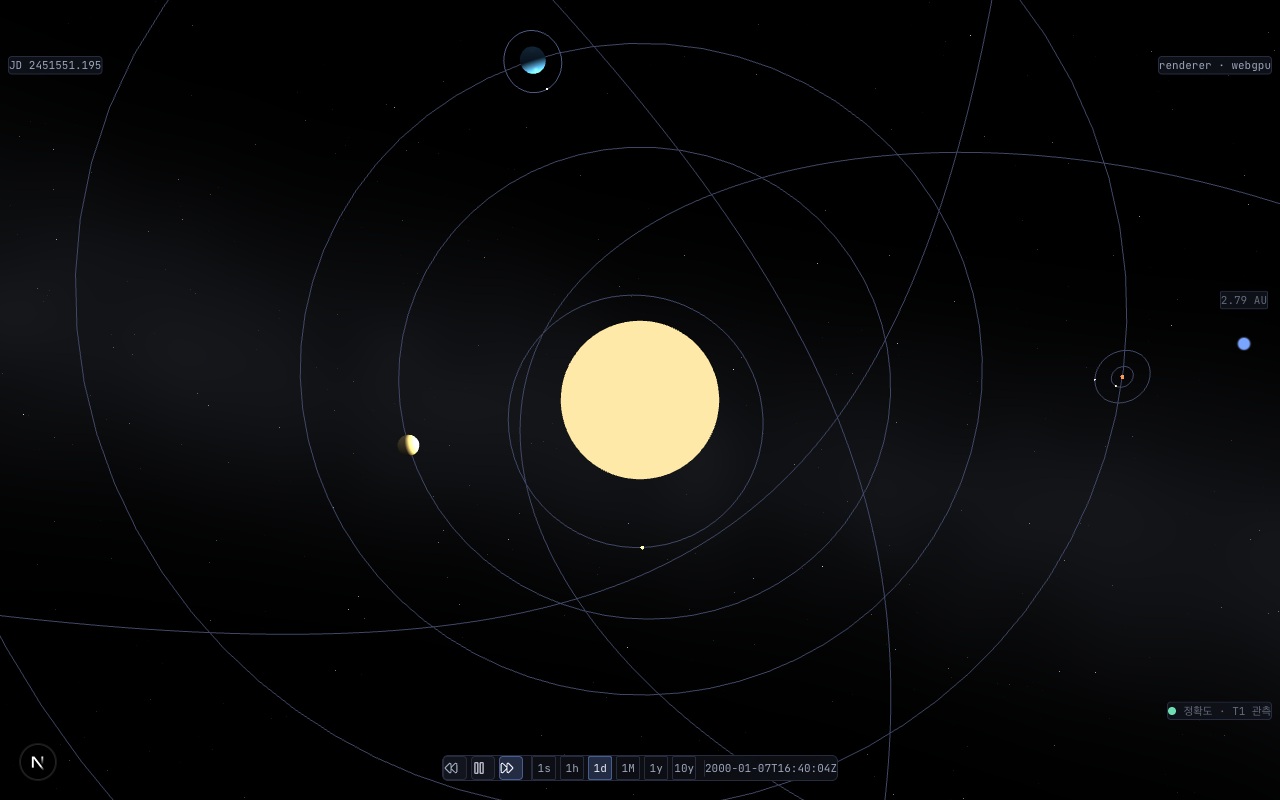
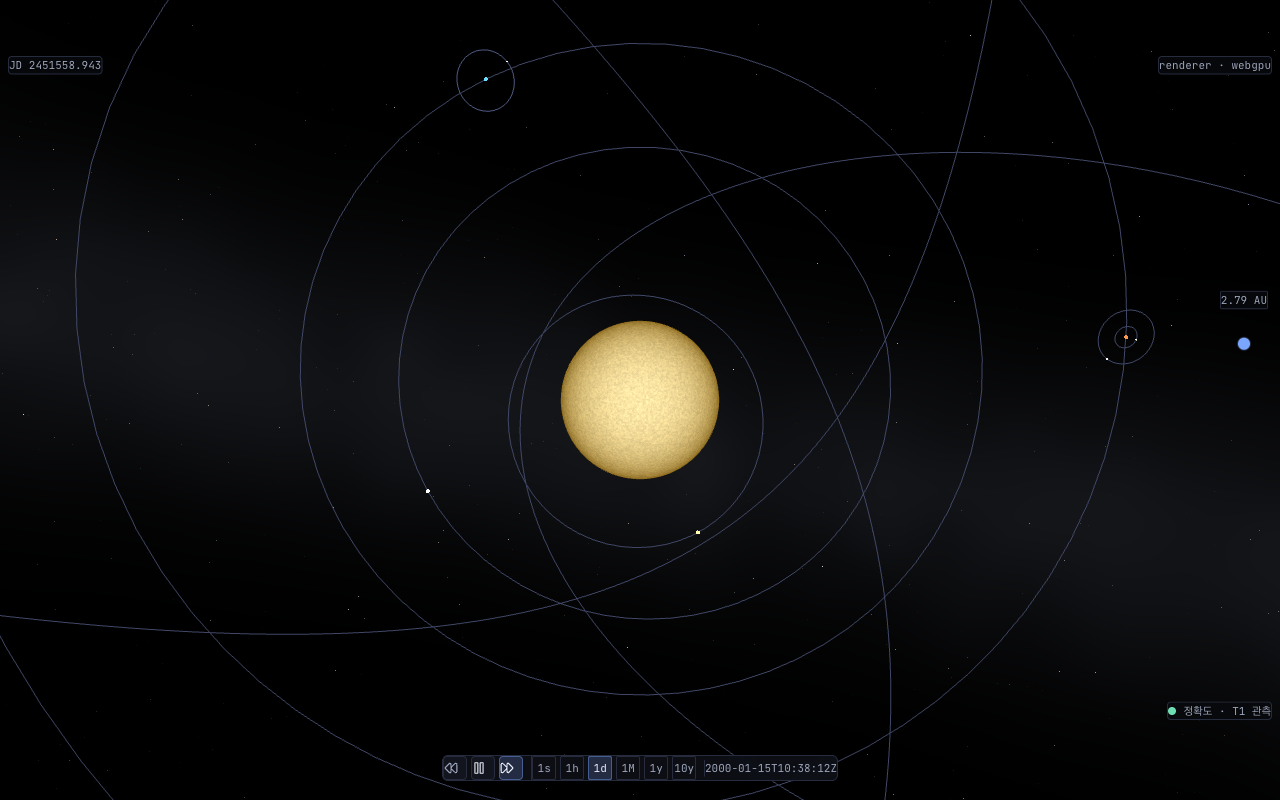
docs(readme): v0.46.0 현행화 — 스크린샷 4장 재캡처 + 트랙 A/B 로드맵 + 시각 레이어 반영 (#808) (#809)
- 스크린샷 4장 라이브 프로덕션 (v0.46.0) 하드웨어 GPU 재캡처 — 태양 granulation,
  지구 대륙·극관·biome·밤면, 해왕성 gas-bands, 별 배경 visible (콘솔 에러 0)
- 현재 상태 v0.35.1 → v0.46.0 + 절차적 표면 & 광원 feature 불릿 신설
- 로드맵 섹션 트랙 A/B 현행 반영 + roadmap-track-ab.md 링크 (#794 정합)
- 테스트 현황 core 710+ / shader-pixel-guard (#759) / fps fresh-runner escalation (#779)
- 프로젝트 구조 verify 위치 #793 규약 반영, 캡처 스크립트는 _debug-*-tmp 즉시 rm

diff --git a/README.md b/README.md
@@ -12,7 +12,7 @@
 
 ## 현재 상태
 
-**v0.35.1** — 로드맵 v3 (Incremental Body-by-Body Build) 완주 + 경험 레이어 (별 배경·온보딩) (2026-06-26)
+**v0.46.0** — 로드맵 v3 (Incremental Body-by-Body Build) 완주 + 트랙 A/B (몰입·온보딩) — 절차적 표면·태양 셰이더 + 자전·실광원 (2026-07-05)
 
 - **태양계 32 body** — 태양 + 행성 8 + 위성 15 + 왜소행성 5 + 혜성 3, 실시간 적분 + 관측 데이터 기반 궤도/크기 시각화
   - 위성 15: 달 / 포보스·데이모스 / 갈릴레이 4 (이오·유로파·가니메데·칼리스토) / 타이탄·레아·이아페투스·엔셀라두스 / 티타니아·오베론 / 트리톤·프로테우스
@@ -23,6 +23,7 @@
 - 소행성대 ThinInstances `?belt=N` 1~10000 (Kepler 해석해)
 - 시간 제어 (재생/역행, ×1d/×1y 프리셋, julian date 정밀 jump) + 질량 슬라이더 + "만약에" 시나리오 + URL 북마크
 - **우주 환경 + 온보딩** — 절차적 별 배경 + 은하수 (`infiniteDistance` 천구 + 단일 draw call shader, 신규 에셋 0, `?stars=off` 토글) / 첫 진입 온보딩 + 조작 가이드 모달 (소프트웨어 렌더 환경은 별 배경 자동 비활성 — fill-rate graceful degradation)
+- **절차적 표면 & 광원 (전부 에셋 0 셰이더)** — 행성 표면 4종 (지구 대륙·극관·biome 위도색 / 화성 dust / 목성 밴드 / 달 크레이터) + 태양 emissive granulation·limb darkening·색온도 + 행성 자전 (NASA sidereal period + IAU 자전축, 금성·천왕성 역행) + 실제 태양 광원 밤면/terminator 명암 + 천체 표시 크기 비율 단조 보존 (sqrt 압축, `?surface=off`/`?rotate=off` 토글)
 
 ## 스크린샷
 
@@ -81,7 +82,7 @@
   /phases               기획/아키텍처/Phase 문서
   /retrospectives       Phase 회고 + 성능/접근성/호환성 보고서
   /screenshots          릴리스 스크린샷
-/scripts                검증 스크립트 (browser-verify-*.mjs)
+/scripts                검증 스크립트 (legacy — 신규 verify 는 apps/web/scripts, #793 규약)
 ```
 
 ---
@@ -124,10 +125,10 @@ pnpm verify:all           # 위 5개 순차 실행
 
 ## 테스트 현황
 
-- **단위 테스트** (Vitest): core 600+ / web 390+ / shared / physics-wasm — scene·physics·coords·ephemeris·gpu·time + store·panels·picking
+- **단위 테스트** (Vitest): core 710+ / web 390+ / shared / physics-wasm — scene·physics·coords·ephemeris·gpu·time + store·panels·picking + 셰이더 GLSL↔JS 미러 parity
 - **Rust** (cargo): nbody + barnes_hut + capability (unit + integration theta sweep / 1-year)
-- **브라우저 검증** (Playwright + agent-browser): `scripts/browser-verify-*.mjs` — body 선택/궤도/focus 정합/fps/a11y 3단계 검증
-- **CI 가드**: r1-ui-regression / fps-baseline / a11y-baseline / R-Phase allowlist 정합 / per-body orbit scale
+- **브라우저 검증** (Playwright + agent-browser): `browser-verify-*.mjs` — body 선택/궤도/focus 정합/fps/a11y 3단계 검증
+- **CI 가드**: r1-ui-regression / fps-baseline (fresh-runner escalation) / a11y-baseline / shader-pixel (표면·광원·자전 verify 6종) / R-Phase allowlist 정합 / per-body orbit scale
 - **성능** (실 GPU, M1 Pro Metal): N=1000/10000 vsync cap 120 fps (헤드리스 software renderer 는 N 비례 감소)
 
 ---
@@ -140,7 +141,7 @@ pnpm verify:all           # 위 5개 순차 실행
 - **P2 — N-body 전환** (Velocity-Verlet WASM, 소행성대)
 - **P3 — Barnes-Hut + WebGPU** (octree O(N log N), WGSL compute, 5-mode 토글)
 
-### 현행 — 로드맵 v3: Incremental Body-by-Body Build ✅ 완주
+### 로드맵 v3: Incremental Body-by-Body Build ✅ 완주
 
 태양부터 하나씩 사용자가 실제로 보이는 body 를 점진 추가하는 재구성. (v2 Fact-First 기반 P10~P17 은 기본 진입 화면 UX 회귀로 전면 폐기 — [volt #74](https://github.com/coseo12/volt/issues/74))
 
@@ -149,6 +150,13 @@ pnpm verify:all           # 위 5개 순차 실행
 - **인터랙션** — 클릭/터치 선택, 겹침 cycle, free-fly 카메라, glow pixel marker, 궤도선 toggle
 
 상세: [`docs/phases/roadmap-v3-incremental.md`](./docs/phases/roadmap-v3-incremental.md). 폐기된 v1/v2 구상은 [`docs/deprecated/`](./docs/deprecated/) 참조.
+
+### 현행 — 트랙 A/B (v3 완주 이후 작업 축)
+
+- **트랙 A 몰입** — 별 배경·은하수 → 표면 셰이더 4종 → 광원 일관성·대륙 → 자전 → 태양 셰이더 → 지구 극관·biome (완료 9건). 후보 백로그: 바다 깊이색 / 대기 fresnel / 구름 / 야간 불빛 / 코로나 / sunspot / 사운드
+- **트랙 B 온보딩** — 첫 진입 온보딩 + 조작 가이드, a11y AA 대비 전수 (1라운드 완료)
+
+상세: [`docs/phases/roadmap-track-ab.md`](./docs/phases/roadmap-track-ab.md)
 
 ---
 
@@ -160,7 +168,8 @@ pnpm verify:all           # 위 5개 순차 실행
 - [아키텍처 결정서](./docs/phases/architecture.md)
 - [디자인 토큰](./docs/phases/design-tokens.md)
 - [UI 아키텍처](./docs/phases/ui-architecture.md)
-- [로드맵 v3 — Incremental Body-by-Body Build (현행)](./docs/phases/roadmap-v3-incremental.md)
+- [로드맵 v3 — Incremental Body-by-Body Build (완주)](./docs/phases/roadmap-v3-incremental.md)
+- [로드맵 트랙 A/B — v3 완주 이후 작업 축 (현행)](./docs/phases/roadmap-track-ab.md)
 - [아키텍처 원칙](./docs/architecture/principles.md) — §1 Visual Fidelity (데이터 SSoT 보존 + 렌더링 왜곡 허용)
 - [용어집](./docs/glossary.md) — R-Phase / Tier / Floating Origin / focus 등
 - 폐기된 v1/v2 구상 + Fact-First 원칙: [`docs/deprecated/`](./docs/deprecated/)
